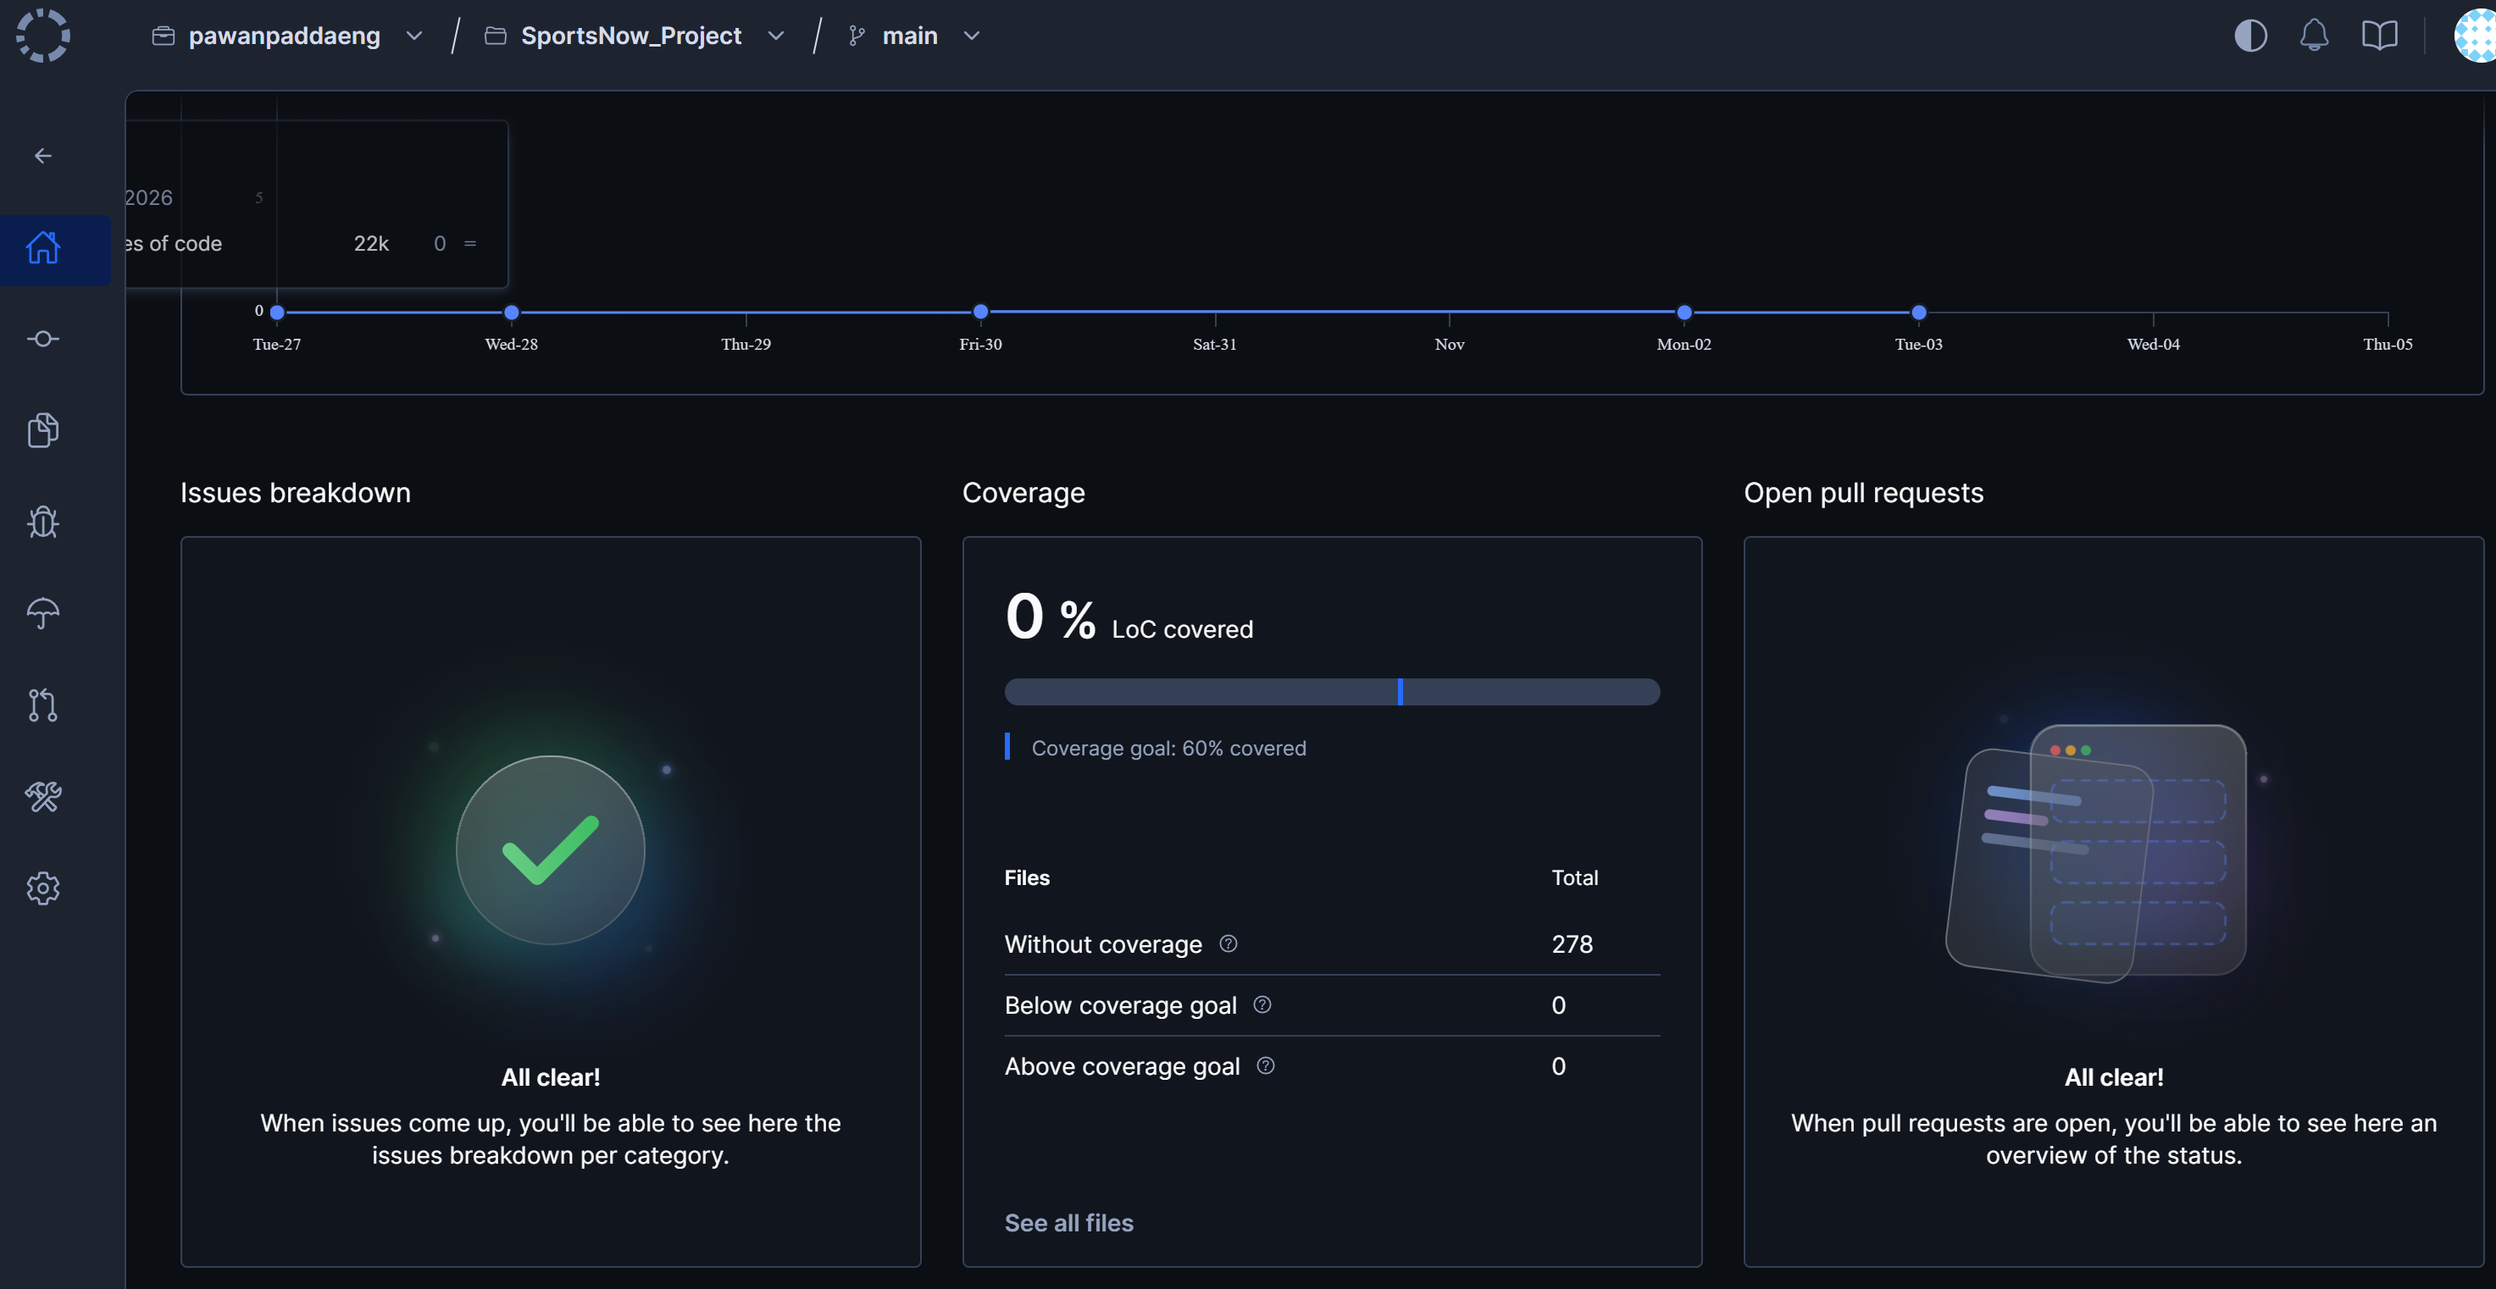
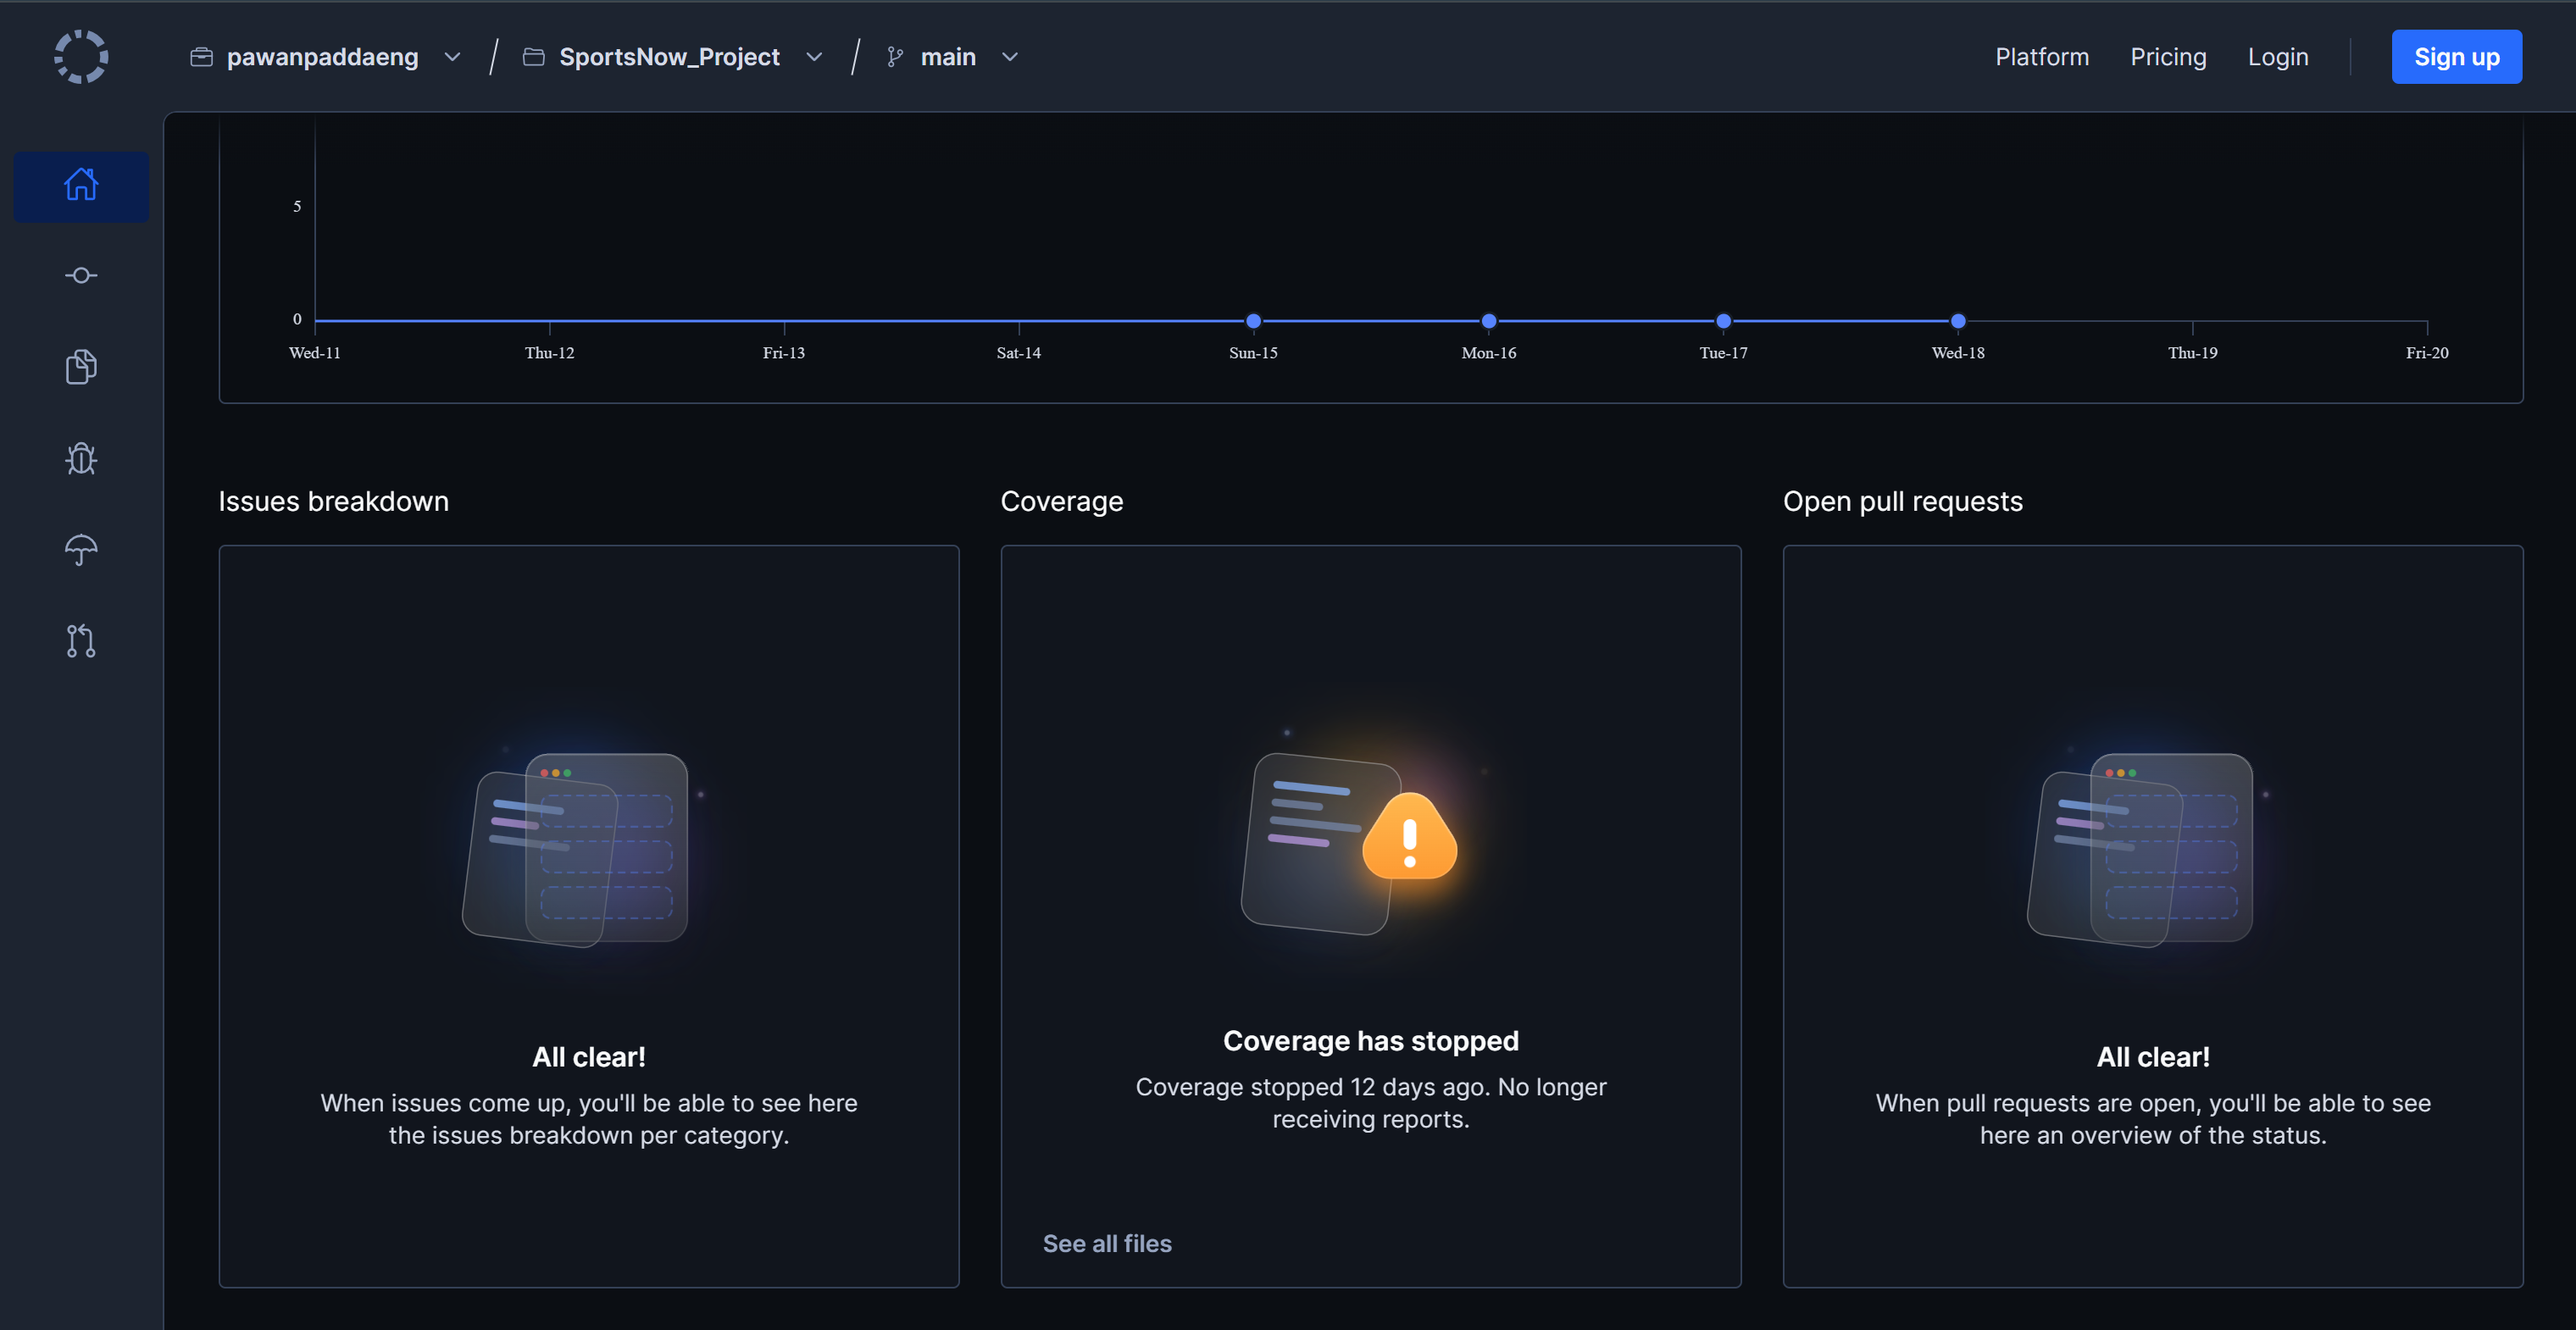
docs: add coverage reports

diff --git a/documentation/Testing.md b/documentation/Testing.md
@@ -678,7 +678,7 @@ The tests without mocks save messages straight in the `chat_messages` table, and
 
 #### 2.1.2. Commit Hash Where Tests Run
 
-_To be added at CP2._
+`6c5ca1383a81a5f5ffbb05042c18b0c06a1ea170`
 
 #### 2.1.3. Explanation on How to Run the Tests
 
@@ -774,11 +774,11 @@ The front-end E2E tests don't run in GitHub Actions, since they need an emulator
 
 ### 2.3. Jest Coverage Report Screenshots With Mocks
 
-_To be added at CP2._
+![Mock tests](images/mock-coverage.png)
 
 ### 2.4. Jest Coverage Report Screenshots Without Mocks
 
-_To be added at CP2._
+![No Mock tests](images/no-mock-coverage.png)
 
 ---
 

diff --git a/documentation/Code_Review.md b/documentation/Code_Review.md
@@ -13,7 +13,7 @@
 
 ### 2.1. Commit Hash Where Codacy Ran
 
-`7ba4248da9b96ccb74851be2b4eae3cedf0c8f87`
+`6c5ca1383a81a5f5ffbb05042c18b0c06a1ea170`
 
 ### 2.2. Unfixed Issues per Codacy Category
 
